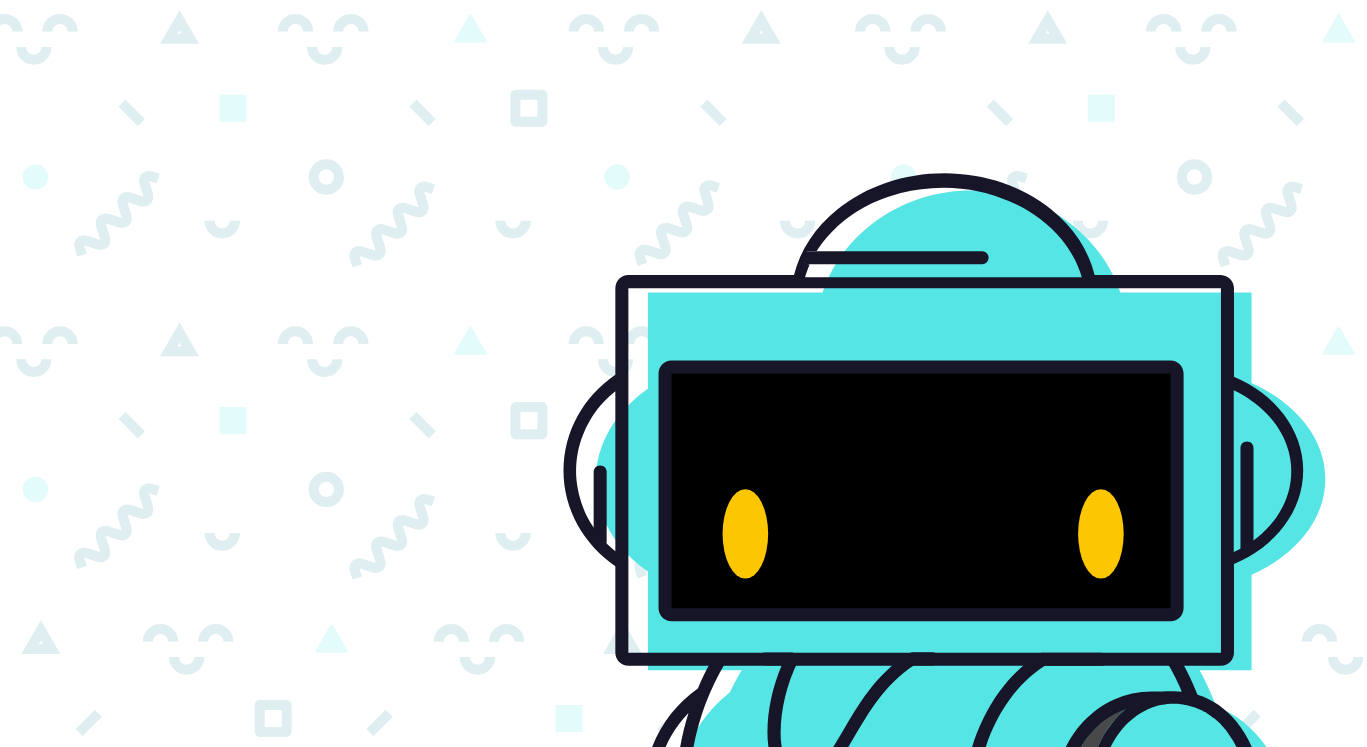
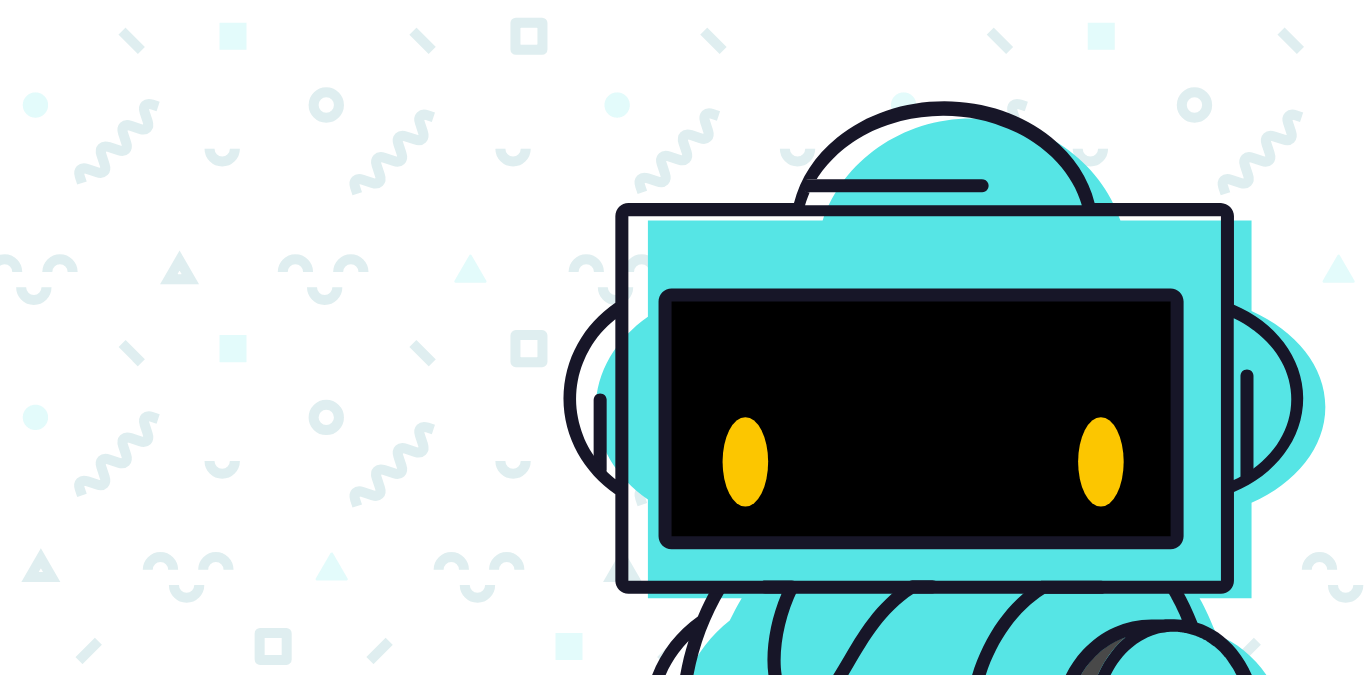
update home styling

diff --git a/src/static/pages/Home.tsx b/src/static/pages/Home.tsx
@@ -13,17 +13,15 @@ import { Const } from '../../Const';
 import { ButtonCta } from '../shared/ButtonCta';
 import { InfoButton } from '../shared/InfoButton';
 
-const contentHeight = 675;
-
 const AboveFoldContent = styled.div`
   background-image: url(${backgroundImageWithNuvi});
   font-family: 'Lato', sans-serif;
   font-weight: bolder;
-  height: 747px;
+  height: 675px;
 `
 
 const MissionLeftPanel = styled.div`
-  background-color: #433F79;
+  background-color: #FFFFFF;
   min-height: 712px;
 `
 
@@ -37,7 +35,7 @@ const MainButtonWrapper = styled.div`
 `
 
 const DonateSection = styled.div`
-  background-color: #4BE1DE;
+  background-color: #FBF500;
   display: table;
   height: 396px;
   color: #000000;
@@ -57,10 +55,8 @@ const DonateButtonWrapper = styled.div`
   width: 200px;
 `
 
-// stupid code
 const ContentWrapper = styled.div`
-  padding-left: 60px;
-  padding-top: ${contentHeight / 4}px;
+  padding-top: 100px;
 `
 
 interface IHomeState {
@@ -79,8 +75,8 @@ export class Home extends React.Component<{}, IHomeState> {
     },
     {
       btn: true,
-      btnContent: 'About us',
-      content: 'Nuevo Foundation is a non-profit that want to help the world’s disadvantaged societies and build solutions.',
+      btnContent: 'ABOUT US',
+      content: 'Nuevo Foundation is a group of passionate professionals empowering underrepresented communities with solutions for future success.',
       link: Const.AboutUsPage,
       open: false,
       title: 'WHO WE ARE',
@@ -88,8 +84,8 @@ export class Home extends React.Component<{}, IHomeState> {
     },
     {
       btn: true,
-      btnContent: 'Learn more',
-      content: 'We are working to offer workshops and Skype classes around the world.',
+      btnContent: 'PARTICIPATE',
+      content: 'We offer coding workshops locally and Skype in the Classroom session around the world. ',
       link: Const.SkypeInClassroomPage,
       open: false,
       title: 'PARTICIPATE',
@@ -157,14 +153,14 @@ export class Home extends React.Component<{}, IHomeState> {
     return (
       <Grid fluid={true}>
         <Row>
-          <Col xs={12}>
-            <AboveFoldContent>
+          <AboveFoldContent>
+            <Col xs={11} xsOffset={1}>
               <ContentWrapper>
                 <div className="main-title">Inspire your students with learning<br />about new technologies.</div>
-                <MainButtonWrapper><InfoButton backgroundColor={'#F9BB08'} textColor={'#000000'} borderColor={'#F9BB08'}> LEARN MORE </InfoButton></MainButtonWrapper>
+                <MainButtonWrapper><InfoButton backgroundColor={'#FCC600'} textColor={'#000000'} borderColor={'#FCC600'}> LEARN MORE </InfoButton></MainButtonWrapper>
               </ContentWrapper>
-            </AboveFoldContent>
-          </Col>
+            </Col>
+          </AboveFoldContent>
         </Row>
         <Row >
           <Col md={6} xs={12}>
@@ -191,8 +187,8 @@ export class Home extends React.Component<{}, IHomeState> {
               </Row>
             </MissionLeftPanel>
           </Col>
-          <Col md={6} xs={12} style={{maxHeight: '712px', overflow: 'hidden'}}>
-            <Image src={this.state.currentImage} style={{width: '180%'}}/>
+          <Col md={6} xs={12} style={{ maxHeight: '712px', overflow: 'hidden' }}>
+            <Image src={this.state.currentImage} style={{ width: '180%' }} />
           </Col>
         </Row>
         <Row>
@@ -202,7 +198,7 @@ export class Home extends React.Component<{}, IHomeState> {
                 <DonateText>Because empowering students with knowledge is our goal!</DonateText>
                 <DonateButtonWrapper>
                   <a href={Const.PayPalDonatePage} style={{ textDecoration: 'none' }}>
-                    <ButtonCta text={'DONATE'} backgroundColor={'#4BE1DE'} textColor={'#000000'} border={'2px solid #000000'} />
+                    <ButtonCta text={'DONATE'} backgroundColor={'#FBF500'} textColor={'#000000'} border={'3px solid #000000'} />
                   </a>
                 </DonateButtonWrapper>
               </div>

diff --git a/src/static/shared/Header.tsx b/src/static/shared/Header.tsx
@@ -100,15 +100,14 @@ export class Header extends React.Component<{}, IHeaderState> {
         },*/
         {
             dropdown: false,
-            link: 'contact',
-            text: 'Contact',
+            link: 'faq',
+            text: 'FAQ',
         },
         {
             dropdown: false,
-            link: 'faq',
-            text: 'FAQ',
-        }
-
+            link: 'contact',
+            text: 'Contact',
+        },
     ];
 
     constructor(props: {}) {
@@ -178,7 +177,7 @@ export class Header extends React.Component<{}, IHeaderState> {
                             <NavList> {this.renderNavItems()} </NavList>
                             <a href={Const.PayPalDonatePage} style={{ textDecoration: 'none' }}>
                                 <ButtonWrapper>
-                                    <ButtonCta text={'DONATE'} backgroundColor={'#FFFFFF'} textColor={'#000000'} border={'3px solid #F9BB08'} />
+                                    <ButtonCta text={'DONATE'} backgroundColor={'#FFFFFF'} textColor={'#000000'} border={'3px solid #000000'} />
                                 </ButtonWrapper>
                             </a>
                         </HeaderWrapper>

diff --git a/src/components/CollapseItem.tsx b/src/components/CollapseItem.tsx
@@ -6,14 +6,14 @@ import styled from 'styled-components';
 import { ButtonCta } from '../static/shared/ButtonCta';
 
 const Item = styled.div`
-  color: #FFFFFF;
+  color: #000000;
   font-family: 'Lato', sans-serif;
 `
 
 const Divider = styled.hr`
   height:0; 
   border:0; 
-  border-top:2px solid #8A88AA; 
+  border-top:2px solid #EFEFEF; 
 `
 
 const TextContent = styled.div`
@@ -69,7 +69,7 @@ export class CollapseItem extends React.Component<ICollapseItemProps, ICollapseI
                             {this.props.btn &&
                                 <Link to={this.props.btnLink!} style={{ textDecoration: 'none' }}>
                                     <ButtonCtaWrapper>
-                                        <ButtonCta text={this.props.btnContent} backgroundColor={'#433F79'} textColor={'#FFFFFF'} border={'2px solid #FFFFFF'} />
+                                        <ButtonCta text={this.props.btnContent} backgroundColor={'#FFFFFF'} textColor={'#000000'} border={'4px solid #000000'} />
                                     </ButtonCtaWrapper>
                                 </Link>
                             }

diff --git a/src/static/shared/InfoButton.tsx b/src/static/shared/InfoButton.tsx
@@ -5,7 +5,7 @@ import styled from 'styled-components';
 const InfoButtonWrapper = styled.div`
   height: 48px;
   width: 186px;
-  font-size: 18px;
+  font-size: 16px;
   background-color: #FFFFFF;
   cursor: pointer;
   text-align: center;

diff --git a/src/assets/stylesheets/Home.css b/src/assets/stylesheets/Home.css
@@ -1,6 +1,6 @@
 .main-title {
     font-family: 'Lato', sans-serif;
-    font-size: 36px;
+    font-size: 32px;
     font-weight: black;
     color:#000000;
 }  
